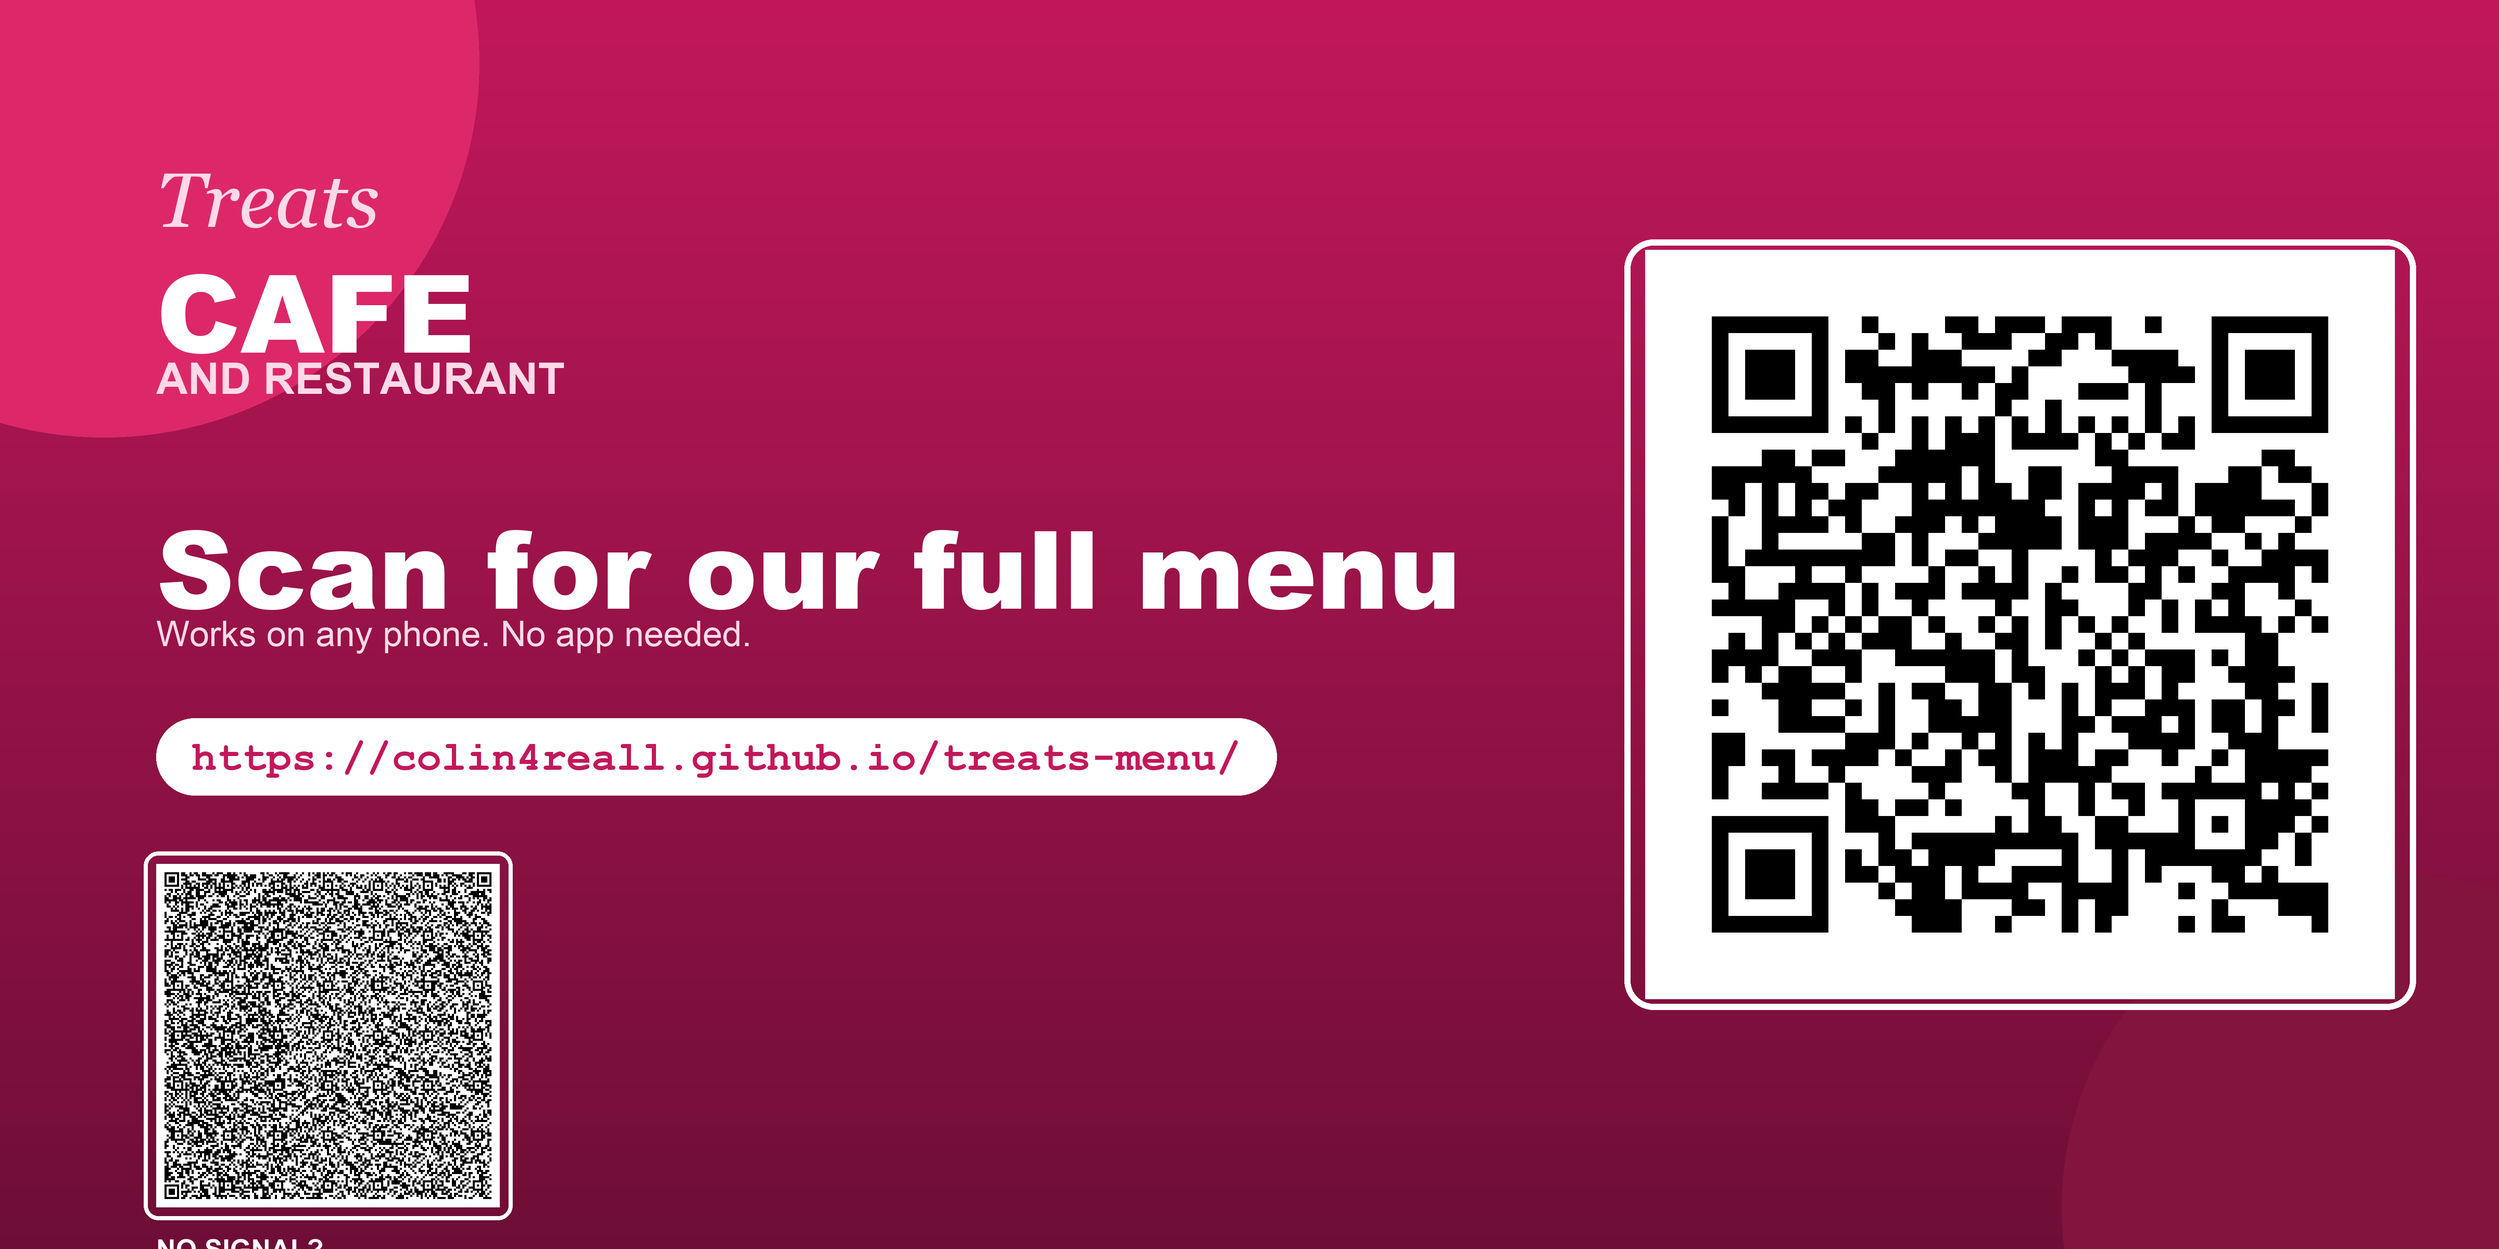
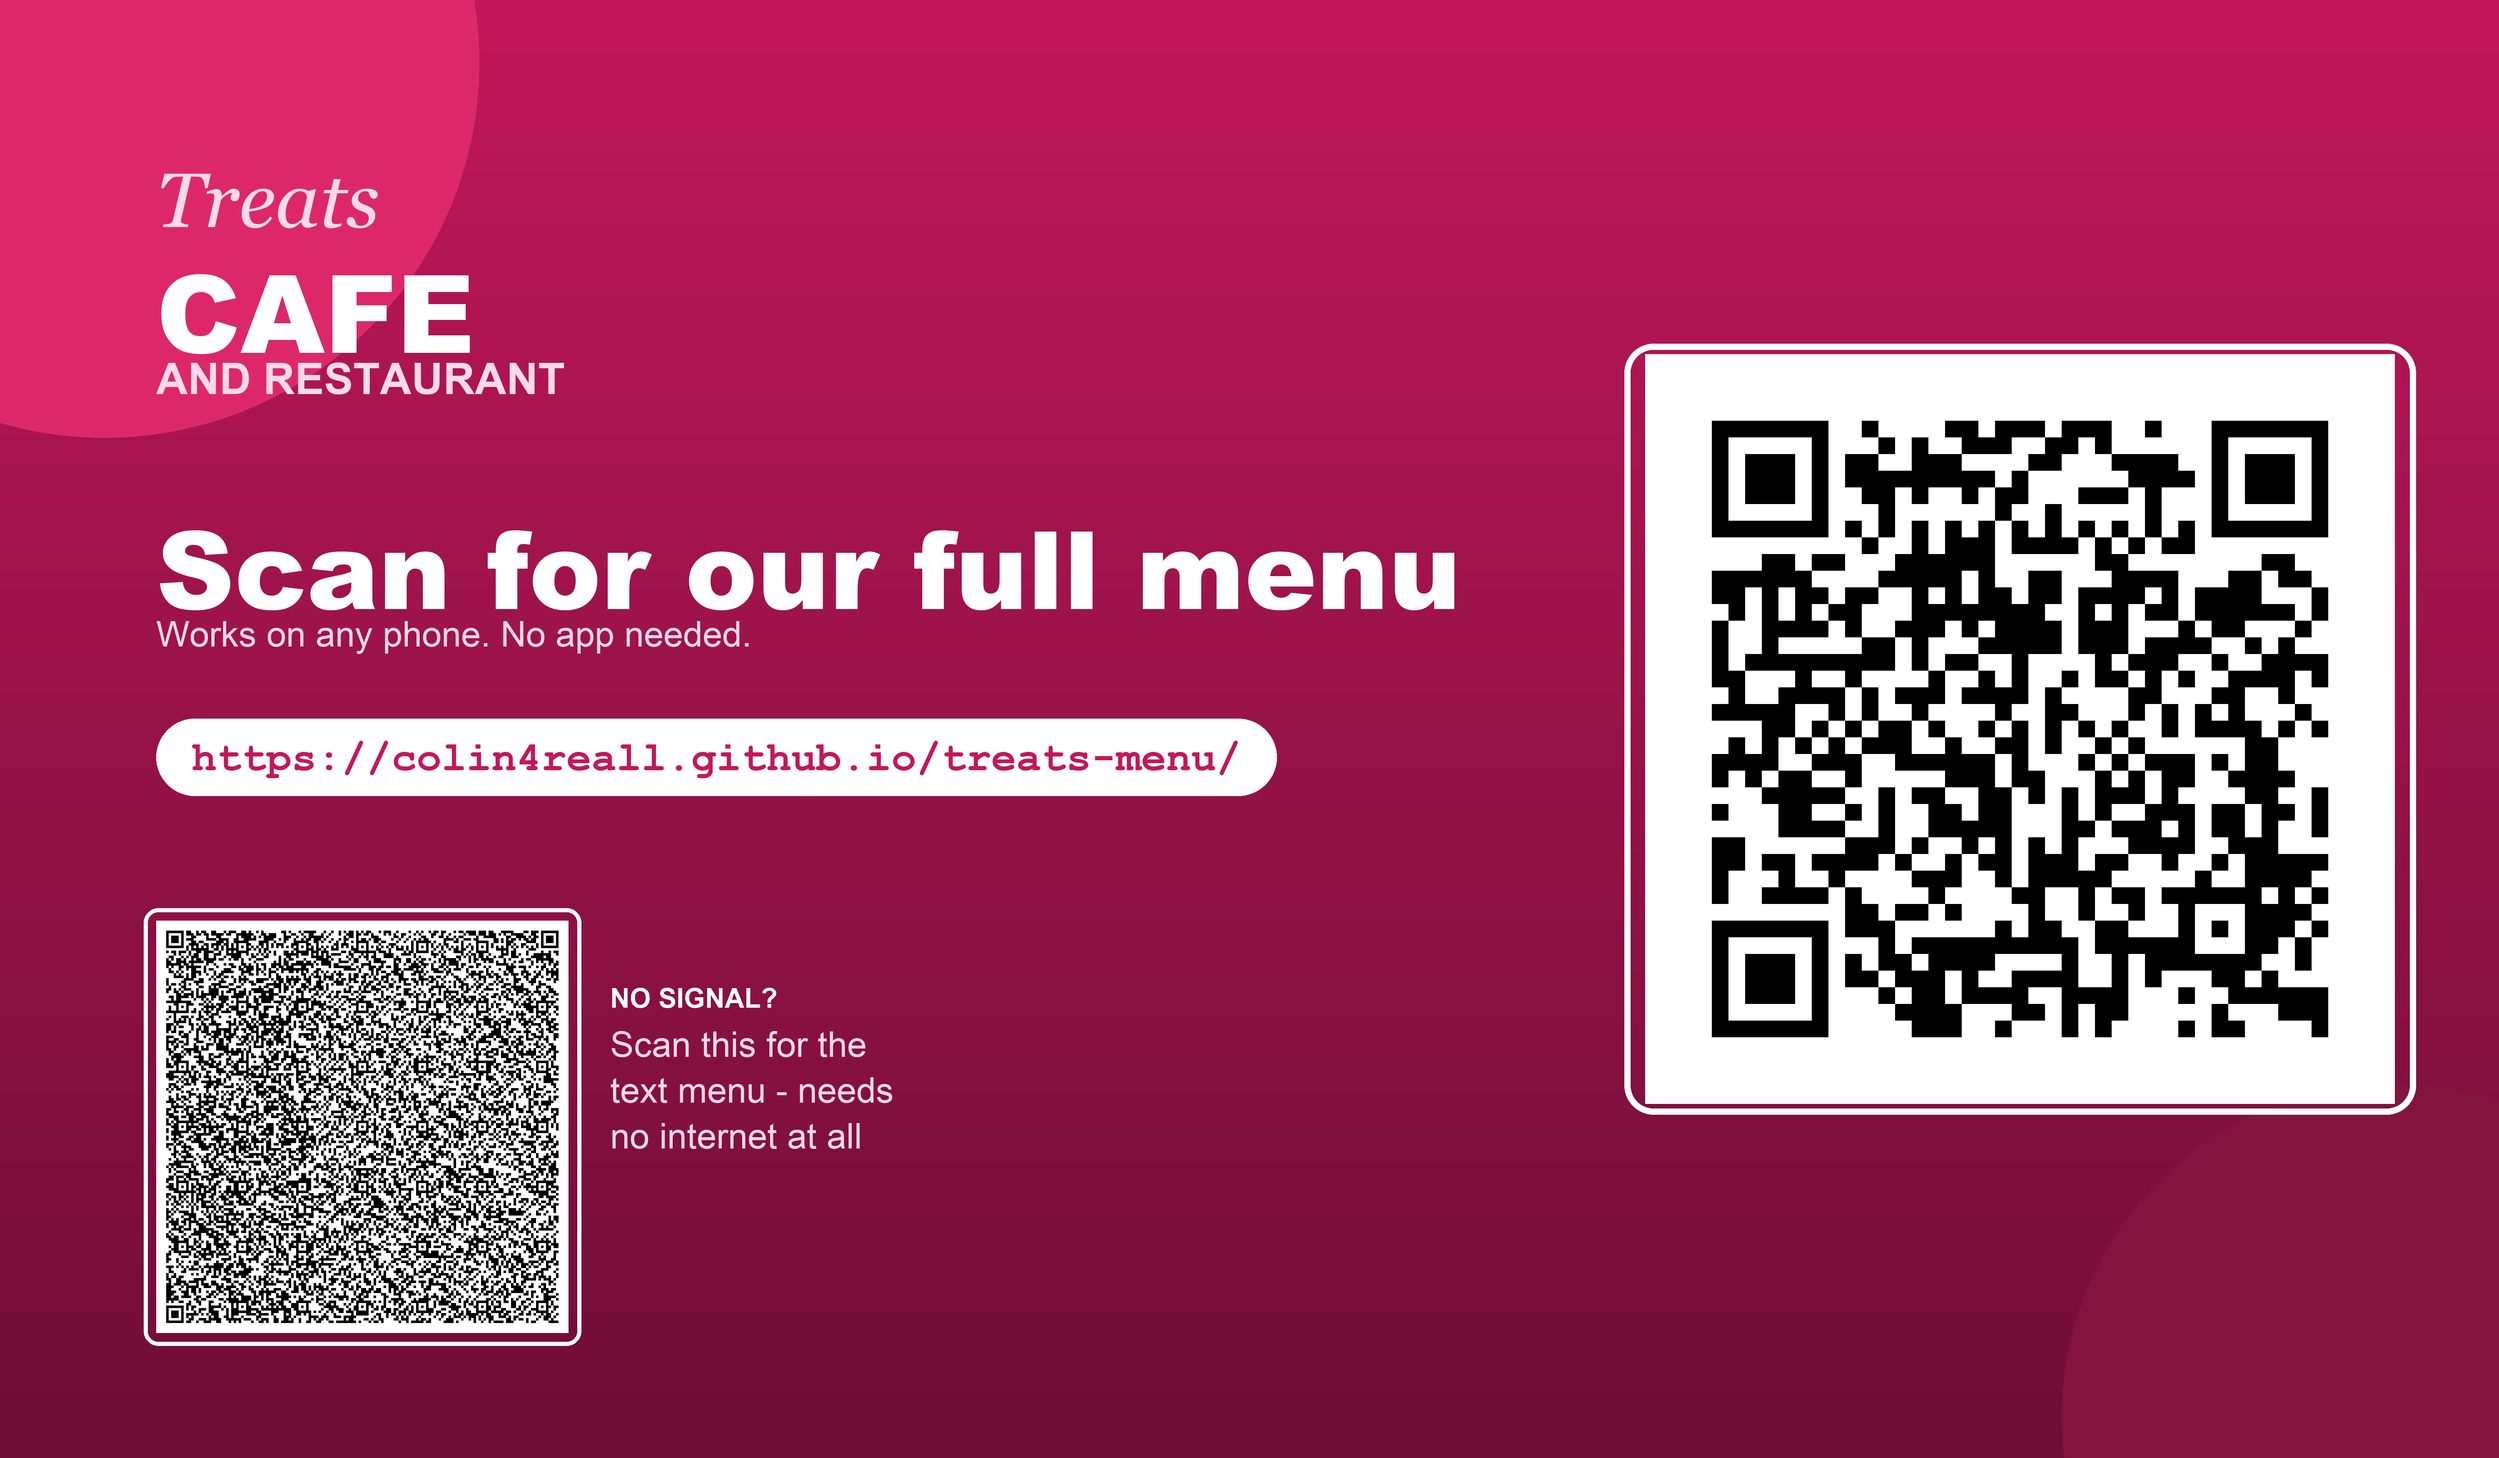
Enlarge offline fallback QR for reliable scanning at A3

Changed region(s): [[0.0, 0.124, 0.5922, 1.0], [0.6545, 0.186, 0.9662, 0.806]]

diff --git a/tools/make_qr_sheets.py b/tools/make_qr_sheets.py
@@ -117,16 +117,22 @@ def big_tent(url, note, path, W=2400, H=1200, offline=False):
                         radius=int(28 * k), outline="#FFFFFF", width=max(2, int(6 * k)))
 
     if offline:
-        # small fallback QR: the whole menu as text - needs NO internet, ever
-        opx = int(300 * k)
+        # small fallback QR: the whole menu as text - needs NO internet, ever.
+        # Sized so it stays >=0.4mm per module even at A3 (the usual scan minimum).
+        opx = int(420 * k)
         oqr, oqs = qr_img(OFFLINE_TEXT, opx, ec="m")
-        ox, oy = int(150 * k), int(830 * k)
+        ox = int(150 * k)
+        oy = H - int(120 * k) - oqs
         im.paste(oqr, (ox, oy))
         d.rounded_rectangle([ox - int(12*k), oy - int(12*k),
                              ox + oqs + int(12*k), oy + oqs + int(12*k)],
                             radius=int(14*k), outline="#FFFFFF", width=max(2, int(4*k)))
-        d.text((ox, oy + oqs + int(26*k)), "NO SIGNAL?", font=F_SMALL, fill="#FFFFFF")
-        d.text((ox, oy + oqs + int(62*k)), "Scan for the text menu", font=F_REG, fill="#FFD9E8")
+        lx = ox + oqs + int(40 * k)
+        ly = oy + int(60 * k)
+        d.text((lx, ly), "NO SIGNAL?", font=F_SMALL, fill="#FFFFFF")
+        d.text((lx, ly + int(40 * k)), "Scan this for the", font=F_REG, fill="#FFD9E8")
+        d.text((lx, ly + int(84 * k)), "text menu - needs", font=F_REG, fill="#FFD9E8")
+        d.text((lx, ly + int(128 * k)), "no internet at all", font=F_REG, fill="#FFD9E8")
 
     im.save(path, "PNG")
     print(f"  {os.path.basename(path):30s} {W}x{H}")
@@ -173,9 +179,9 @@ if __name__ == "__main__":
     big_tent(b_url, b_note, os.path.join(OUT, "big-tent-banner.png"))
     big_tent(b_url, b_note, os.path.join(OUT, "big-tent-banner-print.png"), W=6000, H=3000)
     big_tent(b_url, b_note, os.path.join(OUT, "big-tent-banner-combo.png"),
-             W=2400, H=1200, offline=True)
+             W=2400, H=1400, offline=True)
     big_tent(b_url, b_note, os.path.join(OUT, "big-tent-banner-combo-print.png"),
-             W=6000, H=3000, offline=True)
+             W=6000, H=3500, offline=True)
     print("TABLE TENT:")
     table_tent(t_url, t_note, os.path.join(OUT, "table-tent-sheet.png"))
     print(f"\n  big tent url   : {b_url}")
